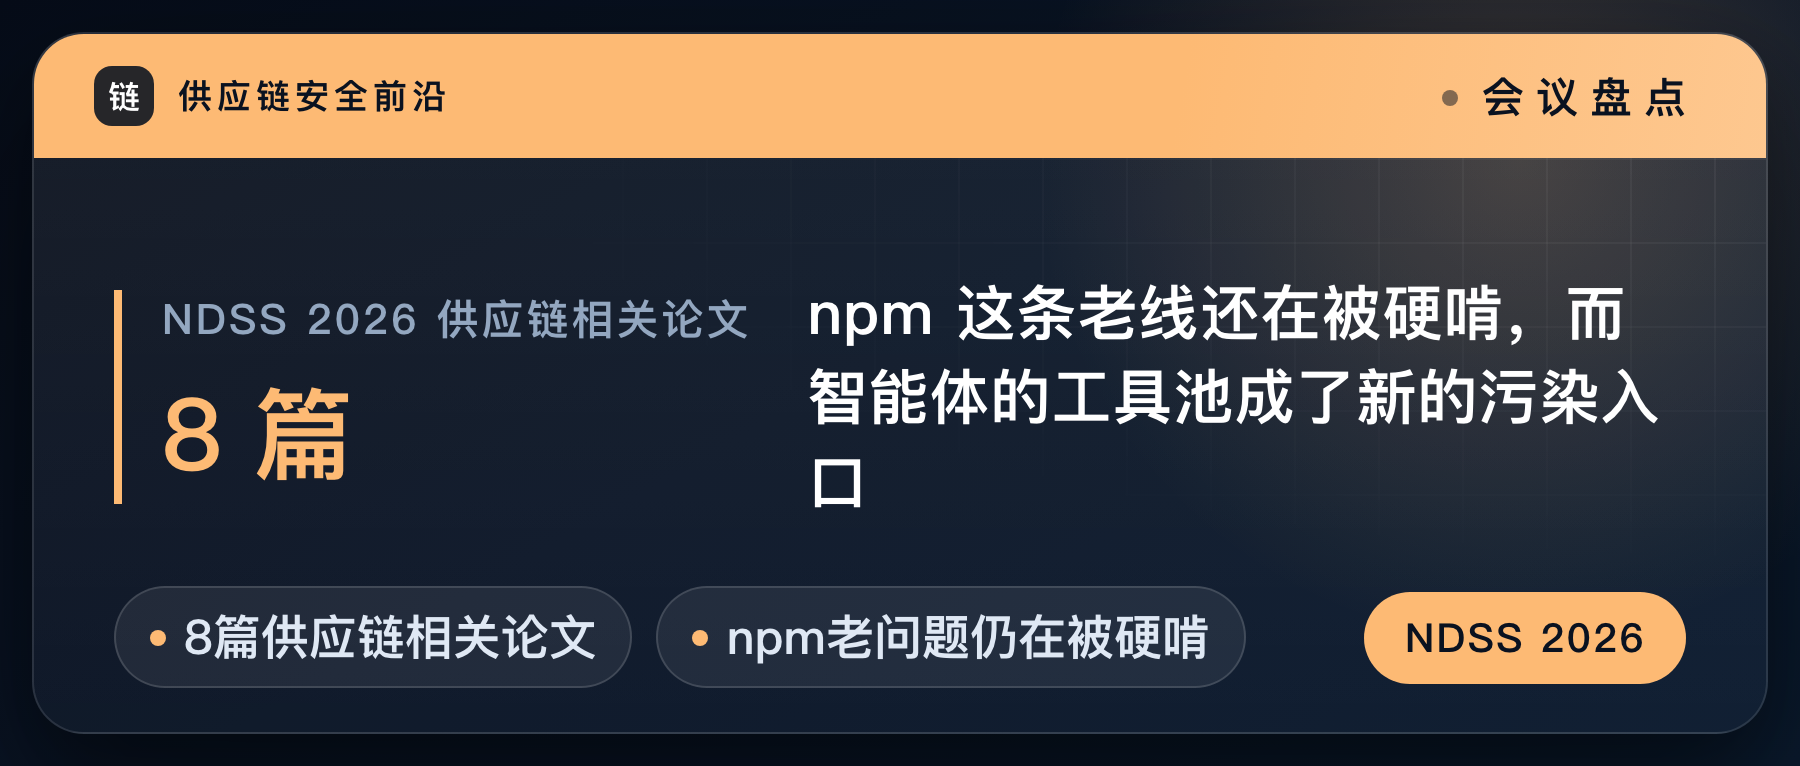
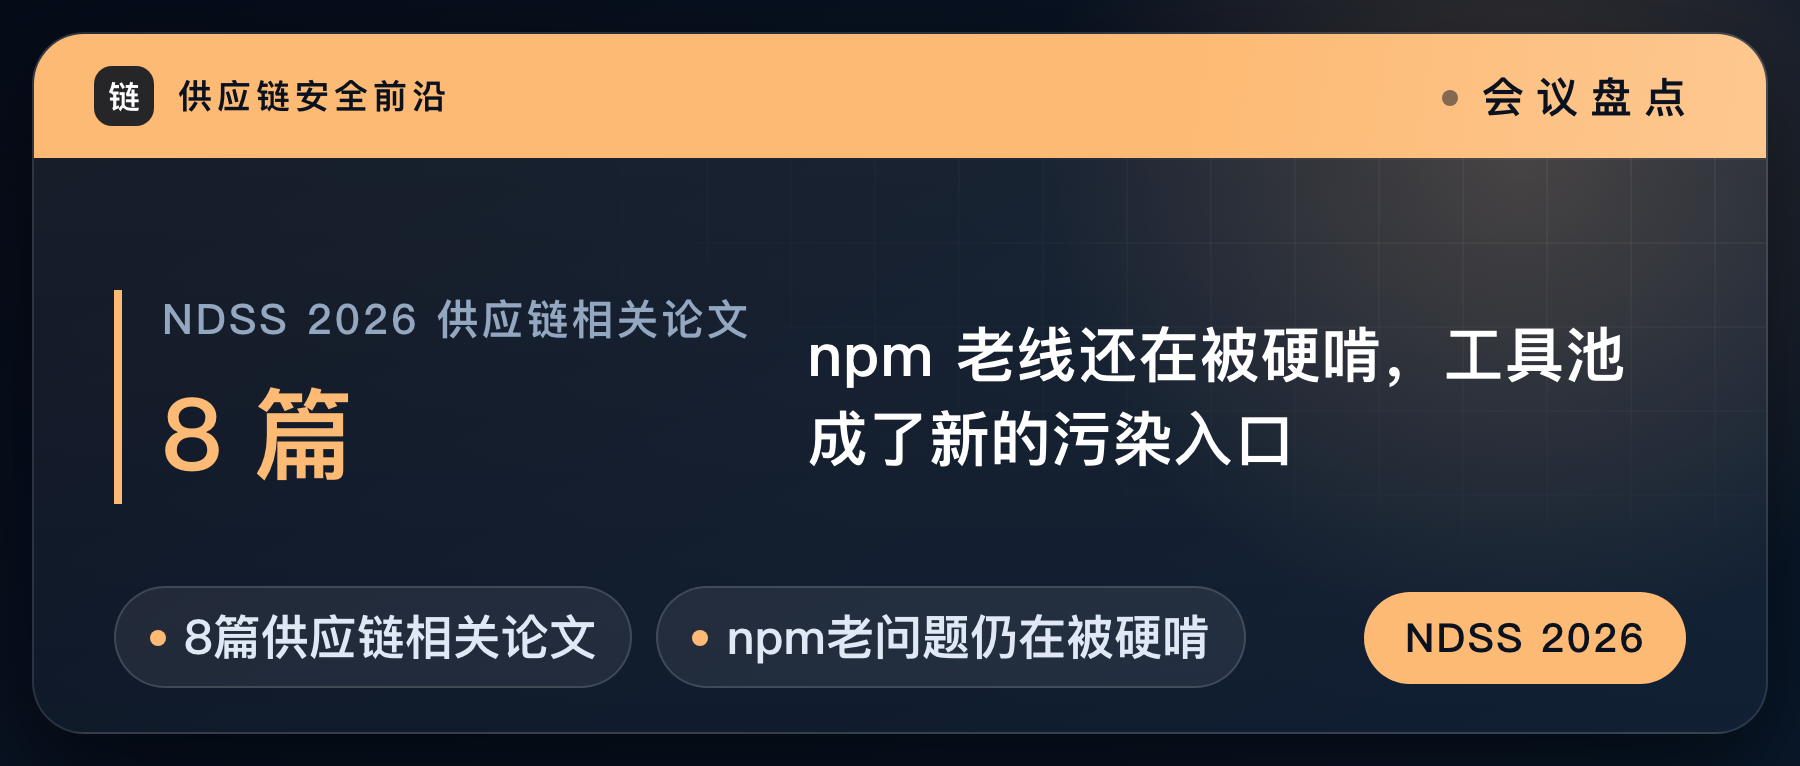
fix: A 版封面看点字号自适应，避免折行出孤字
CCS 那期的看点"预训练模型Hub被系统查"在固定 26px 下刚好卡在右栏宽度边界上，
折成两行、末尾留一个孤字。改成按最长一条看点的视觉宽度自动缩放（19 到 26px），
保证三条都能单行放下。同时把 NDSS 那期的 cover_title 缩短，原来排到第三行只剩一个字。

受影响的封面（CCS、TOSEM 综述、越狱护栏 SoK）已重渲，草稿同步更新。

Claude-Session: https://claude.ai/code/session_01RFo7RVhkE2z328iVJYUyTW

Changed region(s): [[0.4356, 0.3603, 0.9333, 0.6606]]

diff --git a/templates/cover_a.html b/templates/cover_a.html
@@ -62,7 +62,7 @@
   .right { position: relative; z-index: 1; flex-shrink: 0; width: 306px; padding-left: 26px;
            border-left: 1px solid rgba(255,255,255,.13);
            display: flex; flex-direction: column; justify-content: center; gap: 20px; }
-  .hl { display: flex; align-items: flex-start; gap: 11px; color: #e6eef8; font-size: 26px;
+  .hl { display: flex; align-items: flex-start; gap: 11px; color: #e6eef8; font-size: {{hl_size}}px;
         font-weight: 600; line-height: 1.3; }
   .hl:empty { display: none; }
   .hl i { width: 9px; height: 9px; border-radius: 50%; background: {{accent}};

diff --git a/scripts/render_cover.py b/scripts/render_cover.py
@@ -89,6 +89,8 @@ def render_cover(title_zh: str, title_en: str, venue: str, out_path: str,
         "stat": stat, "stat_label": stat_label,
         "stat_from": stat_from, "stat_to": stat_to,
         "stat_size": str(_fit(stat_to, 300, 1, 30, 50)) if stat_to else "46",
+        # A 版右栏每条看点必须单行放下，否则会折出孤字
+        "hl_size": str(_fit(max(hl[:3], key=_em) if any(hl[:3]) else "", 260, 1, 19, 26)),
         "title_size": str(_fit(title_zh, title_box, 3, 22, title_cap)),
     }
     for key, val in fields.items():

diff --git a/roundups/2026-02-ndss2026-supply-chain/article.md b/roundups/2026-02-ndss2026-supply-chain/article.md
@@ -2,7 +2,7 @@
 title: NDSS 2026 里的供应链安全：8 篇论文，npm 仍在被硬啃，工具池污染是新出现的一类
 title_en: "NDSS 2026 Accepted Papers on Software Supply Chain Security"
 kind: roundup
-cover_title: npm 这条老线还在被硬啃，而智能体的工具池成了新的污染入口
+cover_title: npm 老线还在被硬啃，工具池成了新的污染入口
 cover_stat: "8 篇"
 cover_stat_label: NDSS 2026 供应链相关论文
 digest: 把 NDSS 2026 接收名单里和供应链安全相关的论文挑出来做了一期盘点：8 篇，分包生态与依赖、CI 与开发流程、LLM 应用与工具生态、分发与应用生态、研究方法论五组。抓取受限，本期确定覆盖到字母 L。
